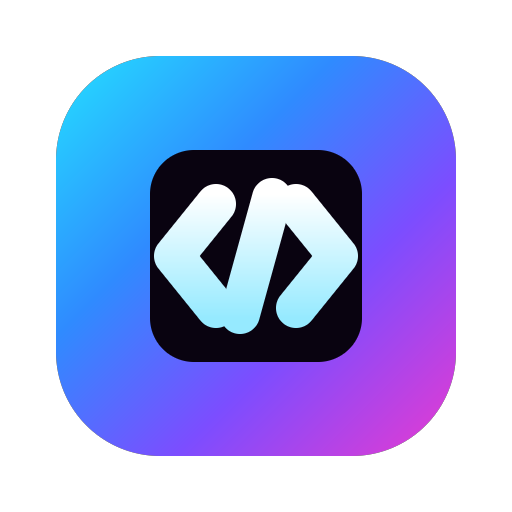
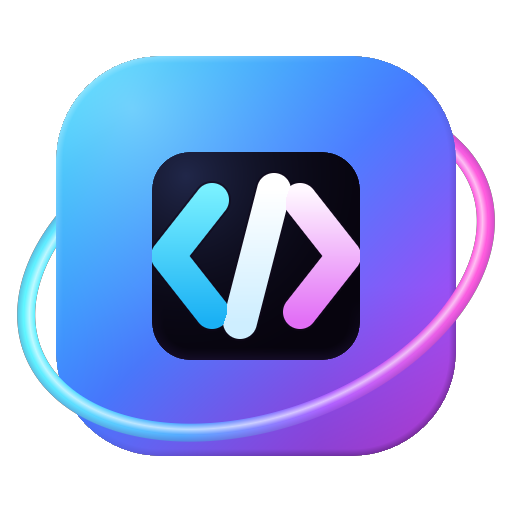
Draw the official BroCode tile with the orbit ribbon and gradient glyph

diff --git a/index.html b/index.html
@@ -76,14 +76,14 @@
          icon and the iOS tile cannot drift apart. The SVG is offered last: a browser that supports
          it picks the infinitely sharp master, the rest fall back to the PNGs above. Files live in
          `public/`, so they resolve at any base path (project-path deployments included). -->
-    <link rel="icon" href="./favicon.ico?v=14" sizes="16x16 32x32 48x48" />
-    <link rel="icon" type="image/png" sizes="32x32" href="./brand/icon-32.png?v=14" />
-    <link rel="icon" type="image/png" sizes="192x192" href="./brand/icon-192.png?v=14" />
-    <link rel="apple-touch-icon" sizes="180x180" href="./brand/apple-touch-icon-180.png?v=14" />
-    <link rel="icon" type="image/svg+xml" href="./brand/brocode-mark.svg?v=14" />
+    <link rel="icon" href="./favicon.ico?v=15" sizes="16x16 32x32 48x48" />
+    <link rel="icon" type="image/png" sizes="32x32" href="./brand/icon-32.png?v=15" />
+    <link rel="icon" type="image/png" sizes="192x192" href="./brand/icon-192.png?v=15" />
+    <link rel="apple-touch-icon" sizes="180x180" href="./brand/apple-touch-icon-180.png?v=15" />
+    <link rel="icon" type="image/svg+xml" href="./brand/brocode-mark.svg?v=15" />
     <!-- The startup screen preloads the SAME generated mark the sidebar draws, so the first paint is
          the official artwork instead of a blank frame. -->
-    <link rel="preload" as="image" href="./brand/brocode-mark.svg?v=14" fetchpriority="high" />
+    <link rel="preload" as="image" href="./brand/brocode-mark.svg?v=15" fetchpriority="high" />
     <!-- Meta title: brand first, the platform identity, ≤60 chars when rendered —
          scripts/tests/sitemap.test.mjs pins the shape. -->
     <title>BroCode &mdash; Complete Technology Learning Platform</title>

diff --git a/public/sw.js b/public/sw.js
@@ -3,7 +3,7 @@
  * cache-first for immutable app assets, network-first for the JSON content packs
  * (curriculum / question banks / tracks) so a content update is never shadowed
  * by a stale cache. All app assets are local — nothing leaves the device. */
-const CACHE = 'aiml-v14'; // v13: every icon URL is versioned, so the tab and installed launcher refetch the ribbon mark
+const CACHE = 'aiml-v15'; // v13: every icon URL is versioned, so the tab and installed launcher refetch the ribbon mark
 
 self.addEventListener('install', (e) => {
   self.skipWaiting();
